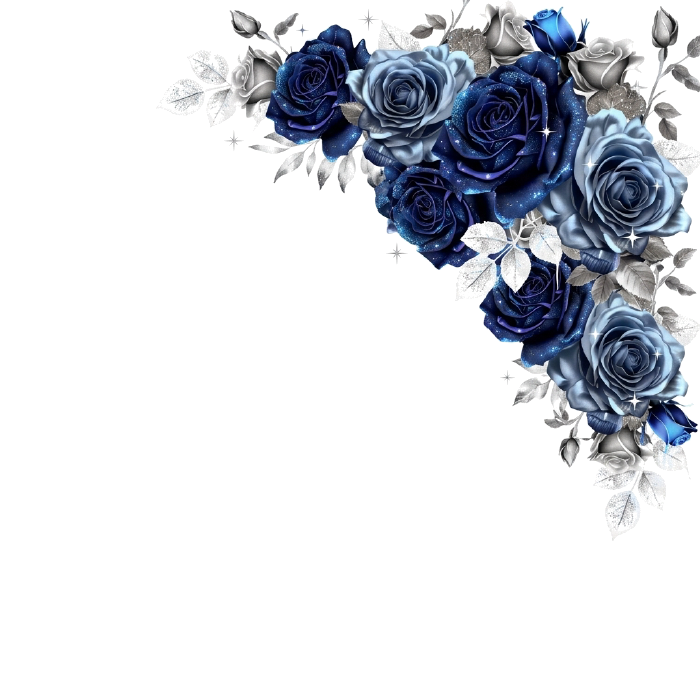
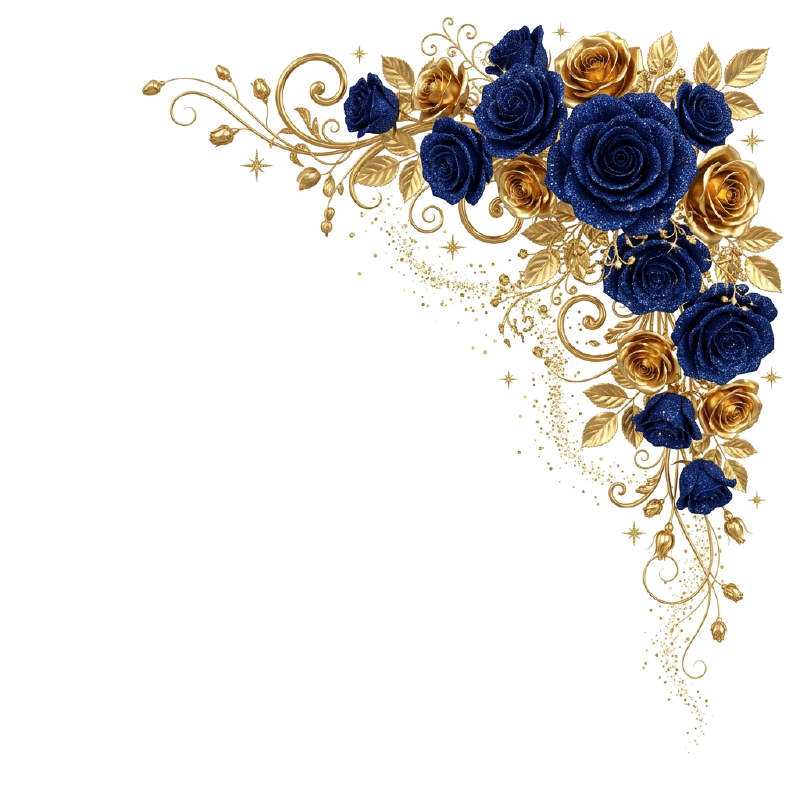
feat: replace silver roses with radiant royal navy blue and metallic gold roses across all artwork

Changed region(s): [[0.18, 0.0, 1.0, 0.9]]

diff --git a/public/invitaciones/misXV/danai/index.html b/public/invitaciones/misXV/danai/index.html
@@ -212,7 +212,7 @@
     .sec-sub { font-family: 'Cinzel', serif; font-size: .82rem; font-weight: 600; letter-spacing: .28em; color: var(--steel-dark); margin-top: .3rem; }
 
     /* Divisor de rosas */
-    .divider { display: block; width: 88%; max-width: 330px; margin: 1rem auto; aspect-ratio: 900 / 230; object-fit: cover; }
+    .divider { display: block; width: 88%; max-width: 330px; margin: 1rem auto; aspect-ratio: 878 / 229; object-fit: contain; }
     .divider.sm { width: 64%; max-width: 230px; }
 
     p.body { font-size: 1.22rem; line-height: 1.55; color: var(--text); }
@@ -396,7 +396,7 @@
       display: flex; flex-direction: column; align-items: center; justify-content: center;
       transition: transform 1s cubic-bezier(.3,.7,.3,1) .55s; box-shadow: 0 2px 8px rgba(0,0,0,.1);
     }
-    .env-letter img { width: 70%; aspect-ratio: 900/230; object-fit: cover; }
+    .env-letter img { width: 70%; aspect-ratio: 878 / 229; object-fit: contain; }
     .env-letter .l1 { font-family: 'Pinyon Script', cursive; font-size: 1.5rem; color: var(--steel-dark); font-weight: 600; }
     .env-letter .l2 { font-family: 'Great Vibes', cursive; font-size: 2.7rem; color: var(--navy); line-height: 1; }
     .env-front {
